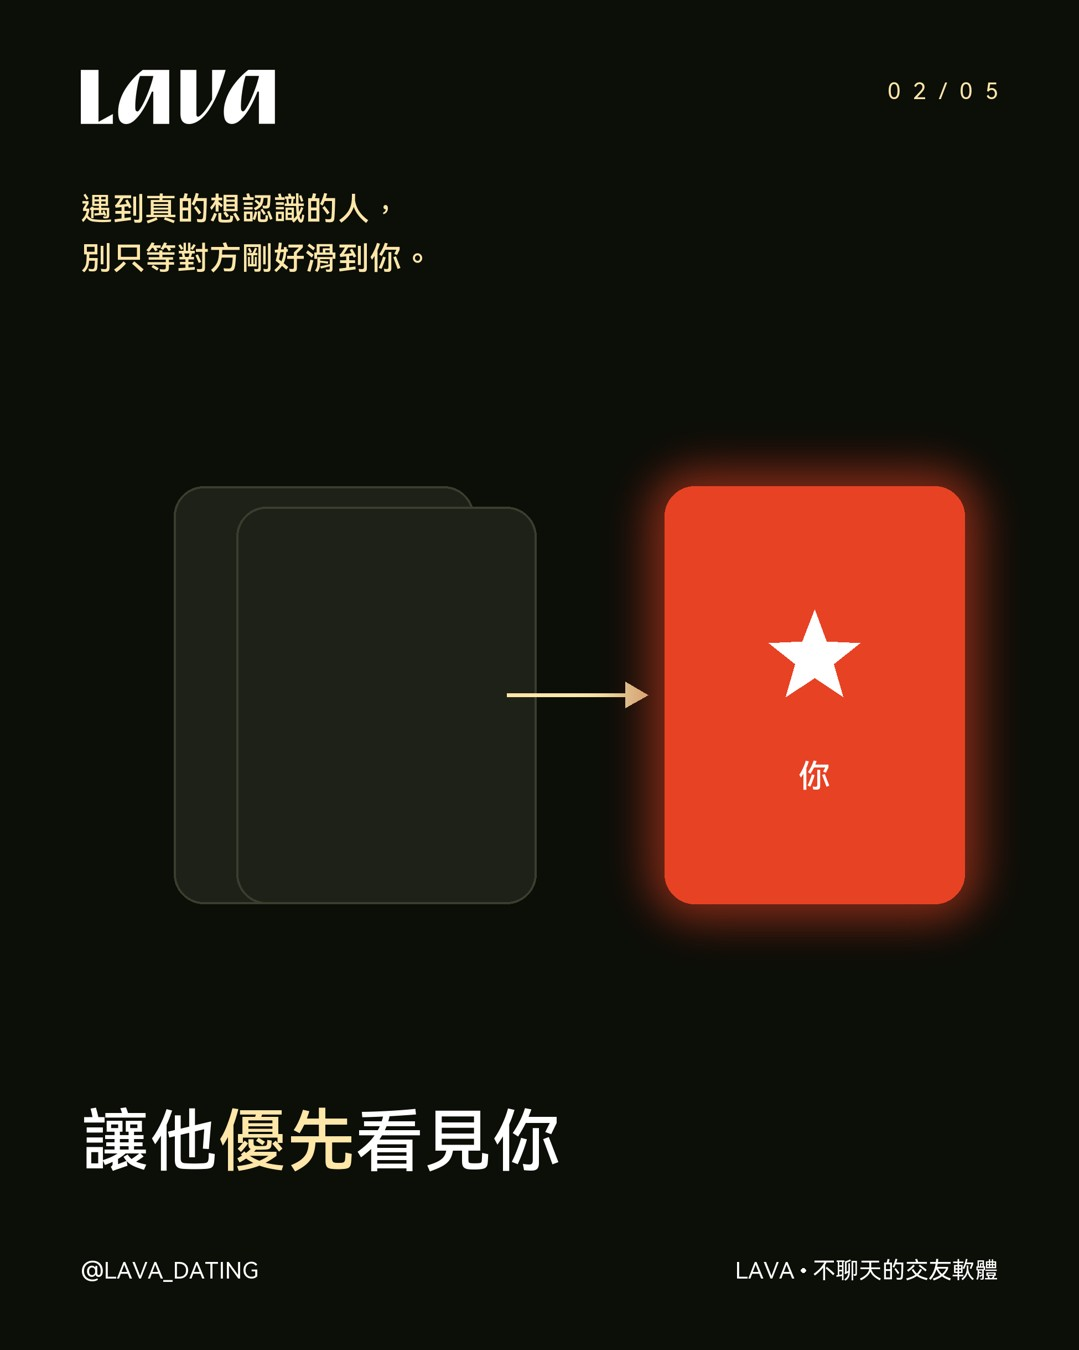
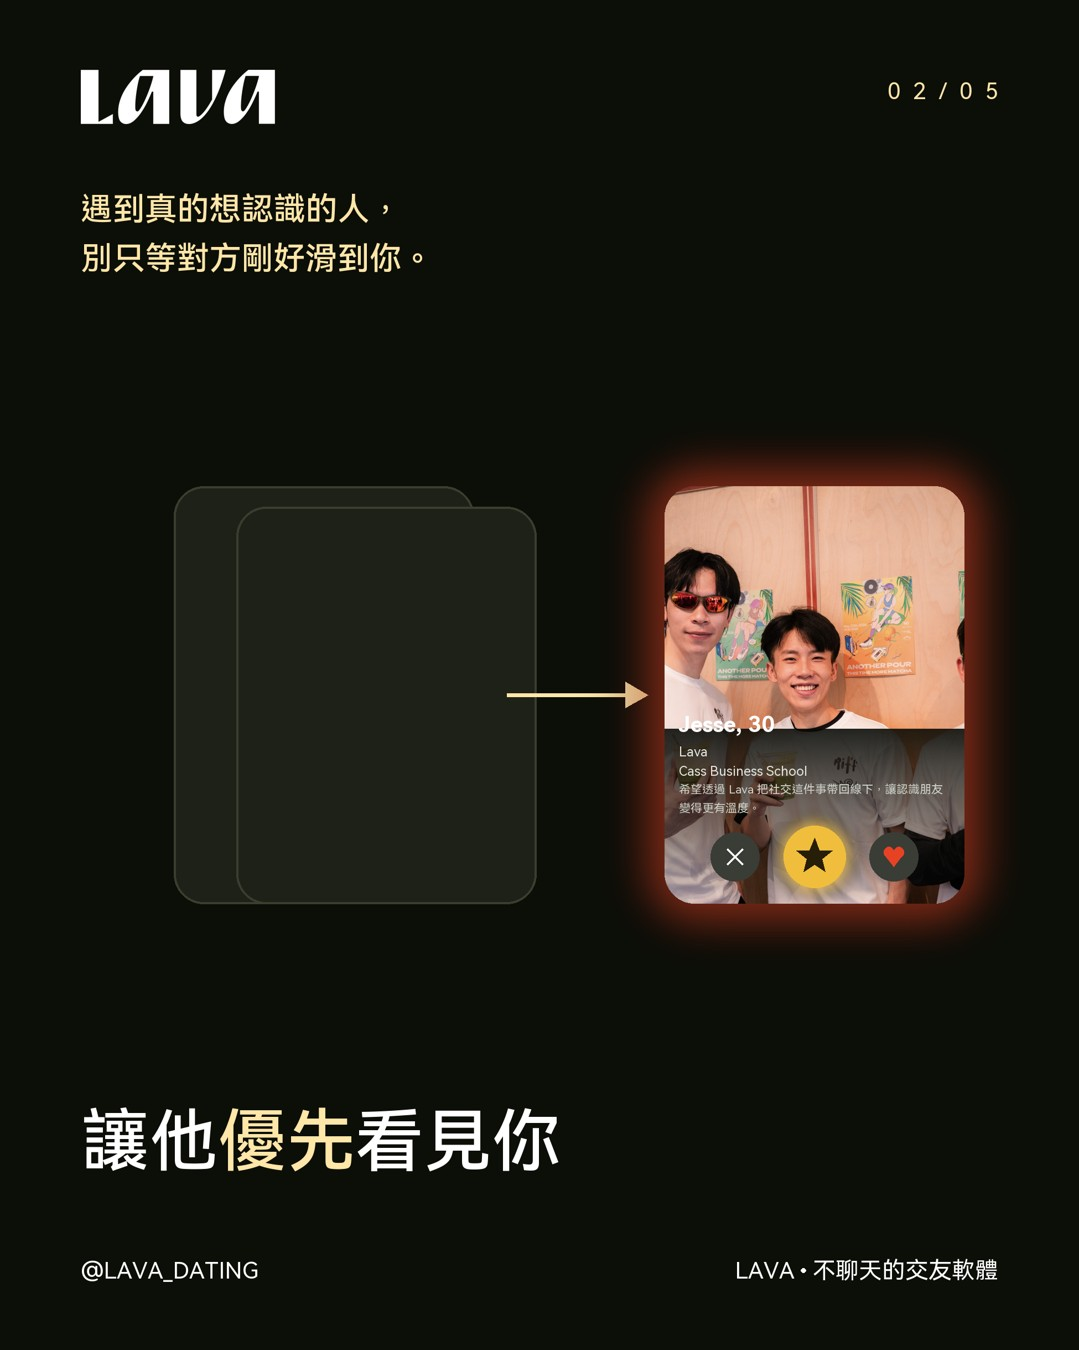
新增 App 滑卡元件：第二張重點卡改真實產品畫面，superlike 鈕加亮
draw_app_card()：照片用真機截圖（retina），UI 一層在全解析度重畫。
不整張貼截圖是因為設計稿只有 375px @1x、真機截圖 1179px，塞進卡片版位
要放大兩倍以上會糊掉——同一個坑 App 介面圖已經踩過。

三個做出來才發現的坑：
- 截圖裡本來就有姓名/學歷/自介那一層，直接當底圖會變成兩層字。
  照片區要切在原生文字之上（本例 y<2050）
- 文字位置第一版照抄設計稿的四個 y 分數，卡片一縮小行距就不夠、四行黏成一團。
  改成由按鈕上緣往回、用字型度量依序堆
- 底部漸層原本吃卡高 55%，剛好蓋在臉上；收到 42%

Changed region(s): [[0.6117, 0.3422, 0.9175, 0.6844]]

diff --git a/scripts/render_product.py b/scripts/render_product.py
@@ -48,6 +48,7 @@ CREAM = (255, 230, 169)    # --soft-yellow #FFE6A9
 RED   = (232, 66, 36)      # --lava-orange #E84224
 INK   = (41, 45, 28)       # --night-olive #292D1C（米底上的深色字）
 WHITE = (255, 255, 255)
+GOLD  = (240, 190, 60)     # App 的 superlike 星鈕底色
 OFFWHITE = (245, 247, 242)  # --neutral-50 #F5F7F2，大字用；純白壓在近黑底上會刺眼
 DIM   = (30, 33, 24)       # 深底上的襯卡
 
@@ -324,6 +325,107 @@ def lay_hero(img, d, slide, shot, dark, band):
     return img, d
 
 
+# App 滑卡的版面比例，量自 @1x 設計稿 1. Match - Explore_Superlike_Send.png（375×812）。
+# 卡片內容取 y110→812（照片頂到底），下面的值都是「佔卡寬」或「佔卡高」。
+AC = {
+    "pad_x": 0.048,          # 左內縮 ÷ 卡寬
+    "fs_name": 0.075, "fs_meta": 0.046, "fs_bio": 0.040,
+    "btn_d": 0.165,          # 圓鈕直徑 ÷ 卡寬
+    "btn_bot": 0.055,        # 圓鈕底緣距卡底 ÷ 卡高
+    "gap_btn": 0.030,        # 文字底 → 圓鈕上緣 ÷ 卡高
+    "btn_x": (0.235, 0.500, 0.765),
+}
+
+
+def draw_app_card(img, box, radius, cfg):
+    """把一張真實產品畫面畫進卡片版位。照片用真機截圖（retina），UI 一層重畫到全解析度。
+
+    為什麼不整張貼截圖：手機截圖 1179px 寬，卡片版位換算後要放大 2 倍以上，
+    字會糊成一團——同一個坑 App 介面圖已經踩過（見 _round_paste 的 UPSCALED 警告）。
+    """
+    x0, y0, x1, y1 = box
+    cw, ch = x1 - x0, y1 - y0
+    shot = cfg.get("photo")
+    if shot and os.path.exists(shot):
+        _round_paste(img, Image.open(shot), box, radius,
+                     focus=tuple(cfg.get("photo_focus", (0.5, 0.35))))
+    else:
+        ImageDraw.Draw(img).rounded_rectangle(list(box), radius=radius, fill=DIM)
+
+    # 底部漸層壓暗，讓白字讀得出來（App 本身就是這個處理）
+    scrim = Image.new("RGBA", (cw, ch), (0, 0, 0, 0))
+    sd = ImageDraw.Draw(scrim)
+    # 漸層只吃卡片下半的 42%：第一版吃 55%，剛好蓋在臉上（2026-08-23）
+    for i in range(int(ch * 0.42)):
+        yy = ch - 1 - i
+        a = int(228 * (i / (ch * 0.42)) ** 0.85)
+        sd.line([(0, yy), (cw, yy)], fill=(8, 10, 6, a))
+    mask = Image.new("L", (cw, ch), 0)
+    ImageDraw.Draw(mask).rounded_rectangle([0, 0, cw-1, ch-1], radius=radius, fill=255)
+    scrim.putalpha(Image.composite(scrim.getchannel("A"), Image.new("L", (cw, ch), 0), mask))
+    img.paste(Image.alpha_composite(
+        img.crop(box).convert("RGBA"), scrim).convert("RGB"), (x0, y0))
+    d = ImageDraw.Draw(img)
+
+    # 文字由下往上堆，位置從字型度量算出來，不用寫死的 y 分數。
+    # 第一版把設計稿的四個 y 值直接抄過來，卡片一縮小行距就不夠，四行黏成一團。
+    px_ = x0 + int(cw * AC["pad_x"])
+    maxw = cw - 2 * int(cw * AC["pad_x"])
+    bd = int(cw * AC["btn_d"]); br = bd // 2
+    bcy = y1 - int(ch * AC["btn_bot"]) - br
+
+    def _wrap(txt, f, limit=2):
+        line, out = "", []
+        for chx in txt:
+            if d.textlength(line + chx, font=f) > maxw and line:
+                out.append(line); line = chx
+            else:
+                line += chx
+        out.append(line)
+        if len(out) > limit:
+            out = out[:limit]; out[-1] = out[-1][:-1] + "…"
+        return out
+
+    f_name = ImageFont.truetype(F_BOLD,  max(9, int(cw * AC["fs_name"])))
+    f_meta = ImageFont.truetype(E.F_REG, max(8, int(cw * AC["fs_meta"])))
+    f_bio  = ImageFont.truetype(E.F_REG, max(8, int(cw * AC["fs_bio"])))
+    rows = [(t, f_name, WHITE) for t in [cfg.get("name", "")] if t]
+    rows += [(t, f_meta, (226, 229, 221)) for t in
+             (cfg.get("job", ""), cfg.get("school", "")) if t]
+    rows += [(t, f_bio, (206, 210, 200)) for t in _wrap((cfg.get("bio") or "").strip(), f_bio)
+             if t]
+    yy = bcy - br - int(ch * AC["gap_btn"])          # 由按鈕上緣往回長
+    for txt, f, col in reversed(rows):
+        lh = int(f.size * (1.62 if f is f_bio else 1.48))
+        yy -= lh
+        d.text((px_, yy), txt, font=f, fill=col)
+
+    # 三顆操作鈕：✕／★／♥。星星是這張圖的主角，加光暈與放大凸顯（Jesse：highlight 出來）
+    for i, fx in enumerate(AC["btn_x"]):
+        bcx = x0 + int(cw * fx)
+        if i == 1:
+            rr = int(br * 1.28)
+            img = _glow(img, [bcx-rr, bcy-rr, bcx+rr, bcy+rr], rr, GOLD, spread=0.009, alpha=150)
+            d = ImageDraw.Draw(img)
+            d.ellipse([bcx-rr, bcy-rr, bcx+rr, bcy+rr], fill=GOLD)
+            _star(d, bcx, bcy, int(rr * 0.62), fill=(38, 30, 8))
+        else:
+            d.ellipse([bcx-br, bcy-br, bcx+br, bcy+br], fill=(58, 60, 54))
+            if i == 0:
+                k = int(br * 0.34)
+                d.line([(bcx-k, bcy-k), (bcx+k, bcy+k)], fill=WHITE, width=max(2, br//9))
+                d.line([(bcx-k, bcy+k), (bcx+k, bcy-k)], fill=WHITE, width=max(2, br//9))
+            else:
+                _heart(d, bcx, bcy, int(br * 0.42), RED)
+    return img
+
+
+def _heart(d, cx, cy, r, fill):
+    d.ellipse([cx-r, cy-r*0.95, cx, cy+r*0.15], fill=fill)
+    d.ellipse([cx, cy-r*0.95, cx+r, cy+r*0.15], fill=fill)
+    d.polygon([(cx-r*0.98, cy-r*0.25), (cx+r*0.98, cy-r*0.25), (cx, cy+r*1.05)], fill=fill)
+
+
 def lay_diagram(img, d, slide, shot, dark, band):
     """卡片堆疊圖解：兩張淡卡 →（箭頭）→ 紅色重點卡。"""
     top, bot = band
@@ -346,11 +448,18 @@ def lay_diagram(img, d, slide, shot, dark, band):
     rx = int(W * 0.755)
     rb = [rx - cw, cy - ch, rx + cw, cy + ch]
     img = _glow(img, rb, r, RED, spread=0.03, alpha=130); d = ImageDraw.Draw(img)
-    d.rounded_rectangle(rb, radius=r, fill=RED)
-    _star(d, rx, cy - int(ch*0.18), int(W*0.045))
-    lbl = (slide.get("focus_label") or "你").strip()
-    f = ImageFont.truetype(E.F_MED, int(W * 0.030))
-    d.text((rx - d.textlength(lbl, font=f)/2, cy + int(ch*0.30)), lbl, font=f, fill=WHITE)
+    if slide.get("app_card"):
+        # 重點卡改放真實產品畫面（Jesse 2026-08-23）。不直接貼手機截圖：
+        # 設計稿是 375px @1x、真機截圖也只有 1179px 寬，塞進版面要放大兩倍以上會糊。
+        # 改成用截圖裡的**照片**當底，UI 一層在全解析度重畫，比例照 @1x 設計稿量。
+        img = draw_app_card(img, rb, r, slide["app_card"])
+        d = ImageDraw.Draw(img)
+    else:
+        d.rounded_rectangle(rb, radius=r, fill=RED)
+        _star(d, rx, cy - int(ch*0.18), int(W*0.045))
+        lbl = (slide.get("focus_label") or "你").strip()
+        f = ImageFont.truetype(E.F_MED, int(W * 0.030))
+        d.text((rx - d.textlength(lbl, font=f)/2, cy + int(ch*0.30)), lbl, font=f, fill=WHITE)
     return img, d
 
 
